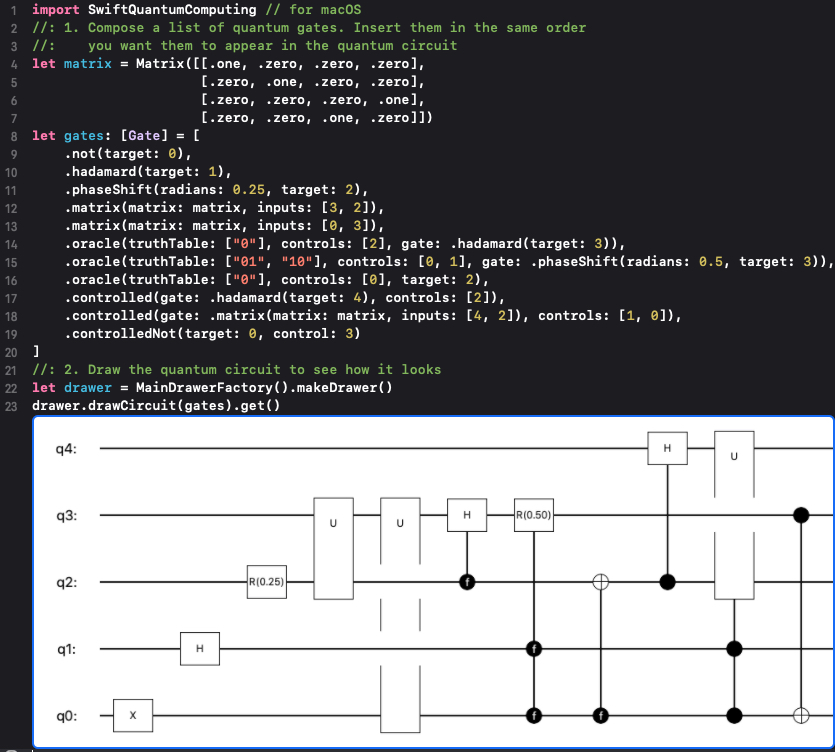
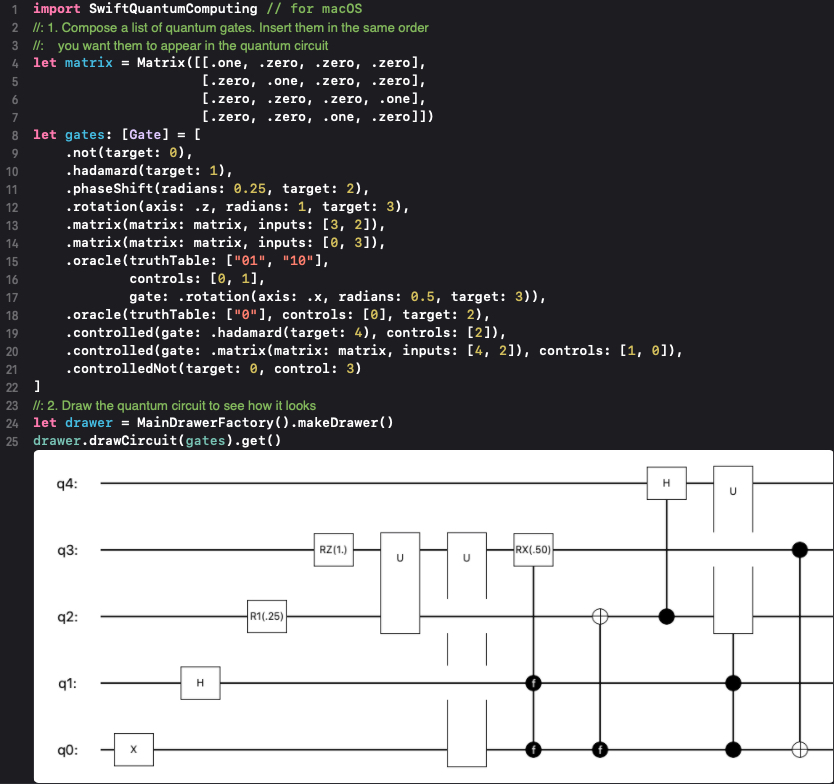
Update README & screenshots

diff --git a/README.md b/README.md
@@ -21,10 +21,12 @@ let gates: [Gate] = [
     .not(target: 0),
     .hadamard(target: 1),
     .phaseShift(radians: 0.25, target: 2),
+    .rotation(axis: .z, radians: 1, target: 3),
     .matrix(matrix: matrix, inputs: [3, 2]),
     .matrix(matrix: matrix, inputs: [0, 3]),
-    .oracle(truthTable: ["0"], controls: [2], gate: .hadamard(target: 3)),
-    .oracle(truthTable: ["01", "10"], controls: [0, 1], gate: .phaseShift(radians: 0.5, target: 3)),
+    .oracle(truthTable: ["01", "10"],
+            controls: [0, 1],
+            gate: .rotation(axis: .x, radians: 0.5, target: 3)),
     .oracle(truthTable: ["0"], controls: [0], target: 2),
     .controlled(gate: .hadamard(target: 4), controls: [2]),
     .controlled(gate: .matrix(matrix: matrix, inputs: [4, 2]), controls: [1, 0]),
